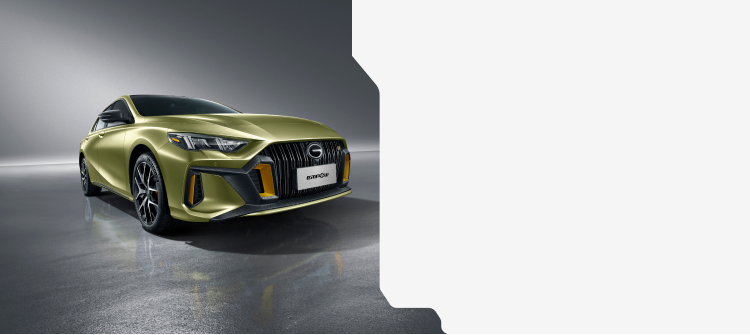
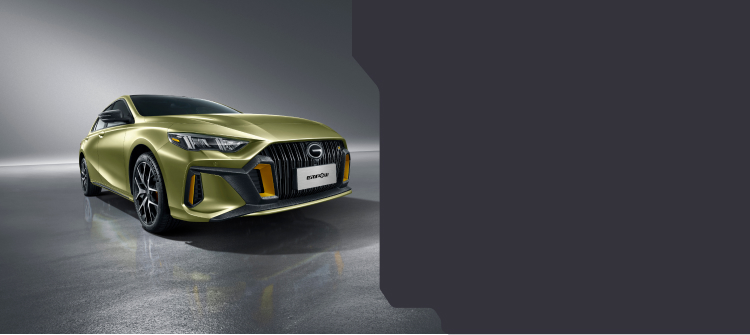
Se actualiza el diseño a dark, se hacen cambios menores de diseño

diff --git a/src/styles/custom.scss b/src/styles/custom.scss
@@ -1,0 +1,3 @@
+body{
+  background-color: #000000;
+}
